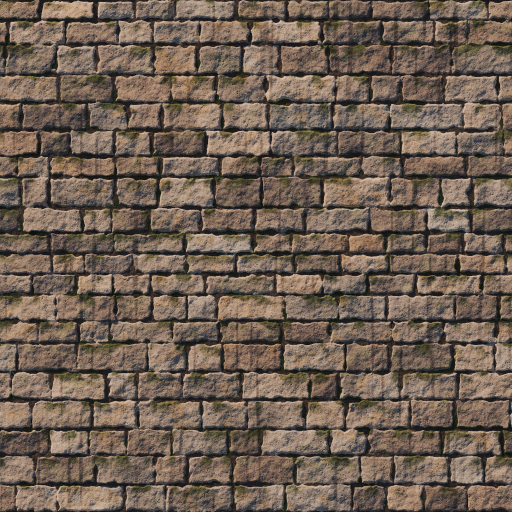
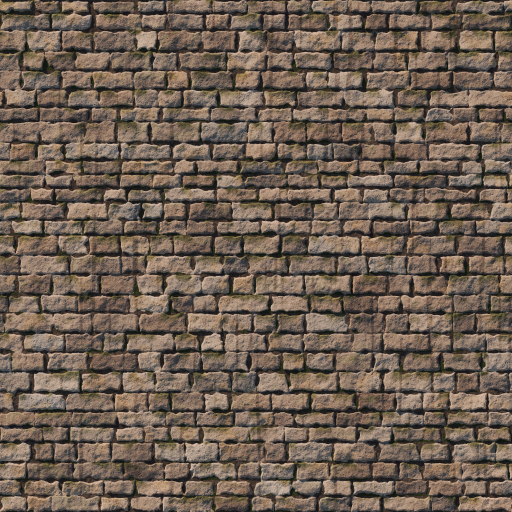
Версия 2026.10.28-104: замки и долина по критику r35 — мельче кладка замков, тоннели с травой, цветами и щебнем, тёмная ровная стена тоннеля; чётче деталь текстур на видеокарте
Claude-Session: https://claude.ai/code/session_01JvXrYdG1XCH4i3GESsQzbh

diff --git a/js/terrain_visual.js b/js/terrain_visual.js
@@ -536,7 +536,7 @@ function shadeMaterial(S, mt, x, y, t, capT, d, info, o, isBack) {
     else if (S.tx.dirt && S.bury) {   /* v94 (эталон valley_tower: стена тоннеля тёмная и ровная — камни на ней не выделяются; у нас — светлые камни и бледные
       круги валунов): тот же грунт, контраст вдвое ниже, темнее */
       texAt(S.tx.dirt, x + 257, y + 131, o); const M = texMeanRGB(S.tx.dirt);
-      r = (M[0] + (o.r - M[0]) * 0.5) * 0.6; g = (M[1] + (o.g - M[1]) * 0.5) * 0.58; bl = (M[2] + (o.b - M[2]) * 0.5) * 0.62;
+      r = (M[0] + (o.r - M[0]) * 0.32) * 0.5; g = (M[1] + (o.g - M[1]) * 0.32) * 0.48; bl = (M[2] + (o.b - M[2]) * 0.32) * 0.52;   /* v104: темнее и ровнее (эталон: стена тоннеля почти чёрная, медиана 15/13/12, камней не видно) */
     }
     else if (S.tx.dirt) { texAt(S.tx.dirt, x + 257, y + 131, o); r = o.r * 0.7; g = o.g * 0.68; bl = o.b * 0.72; }   // земляная пещера: стена из того же грунта с камнями
     else { texAt(S.tx.cave, x, y, o); r = o.r * 1.35; g = o.g * 1.35; bl = o.b * 1.35; }
@@ -1303,6 +1303,18 @@ function drawSurfaceDetails(T, theme, seed, waterY, tops, ceils, mat, backArr) {
       const offset = meadow ? Math.round(fbm1(x / 90, seed + 93, 2) * 32) : 0;
       c.drawImage(img, (((x + offset) % gw) + gw) % gw, 0, 1, gh, x, smoothTop(x, y) + 5 - h, 1, h);
     }
+    if (meadow) {   /* v104 (эталон valley_tower: пол тоннеля зарос травой, критик r35 — «пещера пустая»): трава и на полу тоннелей —
+      ниже и в тени, клочьями; числа rng не тратятся */
+      const cimg = makeCanvas(gw, gh), cx2 = cimg.getContext('2d'); cx2.filter = 'brightness(0.95) saturate(0.9)'; cx2.drawImage(grassTex.canvas, 0, 0);
+      if (surface) surface.sprite(cimg, G.tex.grass, 'brightness(0.95) saturate(0.9)');
+      for (let k = 0; k < tops.length; k += 2) {
+        const x = tops[k], y = tops[k + 1];
+        if (y > waterY - 4 || matAt(x, y) !== 1 || !flatTop(x, y) || !isCaveAt(x, y) || fbm1(x / 40, seed + 95, 2) < -0.3) continue;
+        anchor(x, y);
+        const h = gh * (0.36 + (fbm1(x / 24, seed + 96, 2) + 1) * 0.17 + hash3(x >> 2, 0, seed + 97) * 0.08), offset = Math.round(fbm1(x / 90, seed + 98, 2) * 32) + 57;
+        c.drawImage(cimg, (((x + offset) % gw) + gw) % gw, 0, 1, gh, x, smoothTop(x, y) + 5 - h, 1, h);
+      }
+    }
     if (meadow) {
       c.save(); c.lineWidth = 0.7;
       for (let k = 0; k < tops.length; k += 2) {
@@ -1444,6 +1456,16 @@ function drawSurfaceDetails(T, theme, seed, waterY, tops, ceils, mat, backArr) {
       nextX = x + 40 + rng() * 60; if (rng() < 0.3) continue;
       const col = rng.pick(G.cap.flowers), n = 3 + (rng() * 5 | 0); if (sprites) bunch.push({ n: 0, x: 0, y: -1e9, col });
       for (let j = 0; j < n; j++) { const fx = x + (rng() - 0.5) * 16; if (!T.isSolid(fx, y + 3) || T.isSolid(fx, y - 3)) continue; flower(fx, y + (rng() - 0.5) * 2, 7 + rng() * 11, rng() < 0.75 ? col : rng.pick(G.cap.flowers), 0.9 + rng() * 0.4); }
+    }
+    if (sprites && grassTex && (theme.id === 'valley' || theme.id === 'castle')) {   /* v104: кучки цветов и на полу тоннелей (эталон valley_tower), по хешу */
+      let nx = -1;
+      for (let k = 0; k < tops.length; k += 2) {
+        const x = tops[k], y = tops[k + 1];
+        if (x < nx || y > waterY - 6 || matAt(x, y) !== 1 || !flatTop(x, y) || !isCaveAt(x, y)) continue;
+        nx = x + 44 + hash3(x, 1, seed + 141) * 56; if (hash3(x, 2, seed + 142) < 0.4) continue;
+        const n = 3 + ((hash3(x, 4, seed + 144) * 4) | 0); anchor(x, y);
+        bunch.push({ n, x: x * n, y: y + 1, col: G.cap.flowers[(hash3(x, 3, seed + 143) * G.cap.flowers.length) | 0] });
+      }
     }
     for (const b of bunch) {
       if (!b.n) continue;
@@ -1853,6 +1875,22 @@ function drawSurfaceDetails(T, theme, seed, waterY, tops, ceils, mat, backArr) {
           c.fillStyle = 'rgba(255,255,255,0.18)';
           c.fillRect(x - 0.5, y - grh * 0.6, 1, 0.8);
         }
+      }
+    }
+    // 2б. v104 (критик r35: «тоннель плоский»): щебень на полу тоннелей долины и замков — угловатые камни 2–9 px со светом сверху слева
+    if (theme.id === 'valley' || theme.id === 'castle') {
+      const rubCols = [[92, 86, 78], [78, 72, 64], [104, 98, 88], [68, 62, 54], [86, 82, 76]];
+      for (let k = 0; k < tops.length; k += 2) {
+        const x = tops[k], y = tops[k + 1];
+        if (y > waterY - 4 || !isCaveFloor(x, y) || !flatTop(x, y) || hash3(x, y, seed + 121) > 0.07) continue;
+        const big = hash3(x, y, seed + 122) > 0.78, R = big ? 3 + hash3(x, 1, seed + 123) * 1.6 : 1.1 + hash3(x, 1, seed + 123) * 1.6;
+        const col = rubCols[(hash3(x, 2, seed + 124) * rubCols.length) | 0], nv = 5 + ((hash3(x, 3, seed + 125) * 3) | 0), rot = hash3(x, 4, seed + 126) * TAU, cy = y - R * 0.5;
+        c.fillStyle = 'rgba(10,8,6,0.5)'; c.beginPath(); c.ellipse(x + R * 0.3, y + 0.5, R * 1.3, R * 0.4, 0, 0, TAU); c.fill();   // контактная тень
+        const gr = c.createLinearGradient(x - R, cy - R, x + R, cy + R);
+        gr.addColorStop(0, `rgb(${col[0] * 1.3 | 0},${col[1] * 1.3 | 0},${col[2] * 1.28 | 0})`); gr.addColorStop(0.5, `rgb(${col[0]},${col[1]},${col[2]})`); gr.addColorStop(1, `rgb(${col[0] * 0.45 | 0},${col[1] * 0.45 | 0},${col[2] * 0.48 | 0})`);
+        c.fillStyle = gr; c.beginPath();
+        for (let v = 0; v < nv; v++) { const a = rot + v / nv * TAU, rr = R * (0.72 + 0.4 * hash3(x, v + 10, seed + 127)), px = x + Math.cos(a) * rr, py = cy + Math.sin(a) * rr * 0.7; if (v) c.lineTo(px, py); else c.moveTo(px, py); }
+        c.closePath(); c.fill();
       }
     }
     // 3. Подземный мох / трава с неравным шагом

diff --git a/js/terrain_gl.js b/js/terrain_gl.js
@@ -57,6 +57,7 @@ void main() {
    остальное — кубическая интерполяция нарисованного цвета (без ореолов) */
 const TGL_MAIN_FS = `#version 300 es
 precision highp float; precision highp int; precision highp sampler2D; precision highp usampler2D;
+const float TGL_LODK = 0.7;
 uniform sampler2D tComp; uniform usampler2D tF; uniform usampler2D tB; uniform usampler2D tM; uniform sampler2D tFlow; uniform sampler2D tIds; uniform sampler2D tLow; uniform sampler2D tFine;
 uniform sampler2D tN0; uniform sampler2D tN1; uniform sampler2D tN2; uniform sampler2D tN3; uniform sampler2D tN4; uniform sampler2D tN5;
 uniform ivec2 uSize; uniform vec2 uCompSize; uniform vec4 uXf; uniform float uCanvasH;
@@ -94,7 +95,9 @@ float natH(int s, vec2 tc, vec2 gx, vec2 gy) { return dot(natSample(s, tc, gx, g
 /* родной цвет материала в точке карты w (с фото-порами мельче текселя) */
 vec3 natAt(int s, vec2 w, vec2 d) {
   vec4 ni = uNat[s];
-  vec3 c = natSample(s, (w + d) * ni.z / ni.xy, vec2(ni.z / (uXf.x * ni.x), 0.0), vec2(0.0, ni.z / (uXf.y * ni.y)));
+  /* v104 (критик r35: «мелкая деталь на 20–50 % ниже эталона»): уровень мип-карты на полшага ниже (градиент ×0,7) — при
+     обычном масштабе ×4-текстура уменьшается в 3–3,5 раза, и трилинейная выборка съедала зерно камня и волокна досок */
+  vec3 c = natSample(s, (w + d) * ni.z / ni.xy, vec2(TGL_LODK * ni.z / (uXf.x * ni.x), 0.0), vec2(0.0, TGL_LODK * ni.z / (uXf.y * ni.y)));
   if (float(s) == uFine.x) {
     vec2 fc = (w + d) * uFine.y / uFine.zw;
     c *= dot(textureGrad(tFine, fc, vec2(uFine.y / (uXf.x * uFine.z), 0.0), vec2(0.0, uFine.y / (uXf.y * uFine.w))).rgb, vec3(0.299, 0.587, 0.114)) * (255.0 / 128.0);

diff --git a/index.html b/index.html
@@ -114,7 +114,7 @@
         </div>
       </div>
     </div>
-    <footer class="menu-footer"><span id="game-version">ВЕРСИЯ 2026.10.28-103</span><span>ПЛАНИРУЙ ХОД. МЕНЯЙ ЛАНДШАФТ.</span><span class="footer-status"><i></i> ГОТОВ К БОЮ</span></footer>
+    <footer class="menu-footer"><span id="game-version">ВЕРСИЯ 2026.10.28-104</span><span>ПЛАНИРУЙ ХОД. МЕНЯЙ ЛАНДШАФТ.</span><span class="footer-status"><i></i> ГОТОВ К БОЮ</span></footer>
   </section>
 
   <!-- Онлайн -->

diff --git a/dev/blender/make_masonry.py b/dev/blender/make_masonry.py
@@ -35,9 +35,15 @@ STYLES = {
     'valley': dict(name='stone_valley', seed=11, T=512, hr=(16, 21), wr=(26, 54), joint=2.4, bev=1.3, recess=1.6, tilt=0.7,
                    stone=[(184, 172, 152), (166, 156, 140), (196, 184, 164), (150, 140, 126), (176, 162, 142)],
                    mortar=(88, 76, 60), lichen=0.3, moss=0.24, light=None),   # r23: швы тёплые и не чёрные, камень теплее, фаска −40 %
+    # башня долины (v104, критик r35: «швы башни тёмные 3–6 px»; эталон valley_tower — серый гранит с крапом, швы тонкие и
+    # неглубокие, мох по верхним граням): прежняя brick_keep была из make_textures.masonry (глубокие чёрные щели)
+    'keep': dict(name='brick_keep', seed=27, T=512, hr=(22, 30), wr=(40, 78), joint=1.5, bev=1.4, recess=1.1, tilt=0.8,
+                 stone=[(150, 150, 146), (136, 136, 132), (162, 160, 154), (124, 124, 120), (146, 144, 138)],
+                 mortar=(74, 72, 66), lichen=0.3, moss=0.35, hgrain=0.5, cgrain=1.0, speck=0.02, light=None),
     # замки на закате: тёплый песчаник-известняк, камни мельче, швы тоньше
     # r29 → v71: камни крупнее и разного размера (критик: «мелкий плоский кирпич 20×12»), больше мха и лишайника
-    'castle': dict(name='stone_castle', seed=23, T=512, hr=(19, 31), wr=(30, 74), joint=2.2, bev=1.8, recess=1.8, tilt=0.8,
+    # r35 → v104: «камни вдвое крупнее эталона» (там камень ≈ 0,3 роста бойца, у нас 0,45–0,5): середина между r29 и r35 — ×0,7
+    'castle': dict(name='stone_castle', seed=23, T=512, hr=(13, 22), wr=(22, 52), joint=2.0, bev=1.6, recess=1.7, tilt=0.8,
                    stone=[(178, 170, 158), (164, 156, 145), (190, 182, 168), (152, 144, 134), (172, 166, 156)],
                    mortar=(104, 96, 86), lichen=0.34, moss=0.42, light=dict(col=(1.0, 0.78, 0.58), elev=18, energy=5.2)),   # r23: насыщенность −35 %
     # каньон: тёплый песчаник, мелкие блоки, швы с песком, без лишайника и мха
